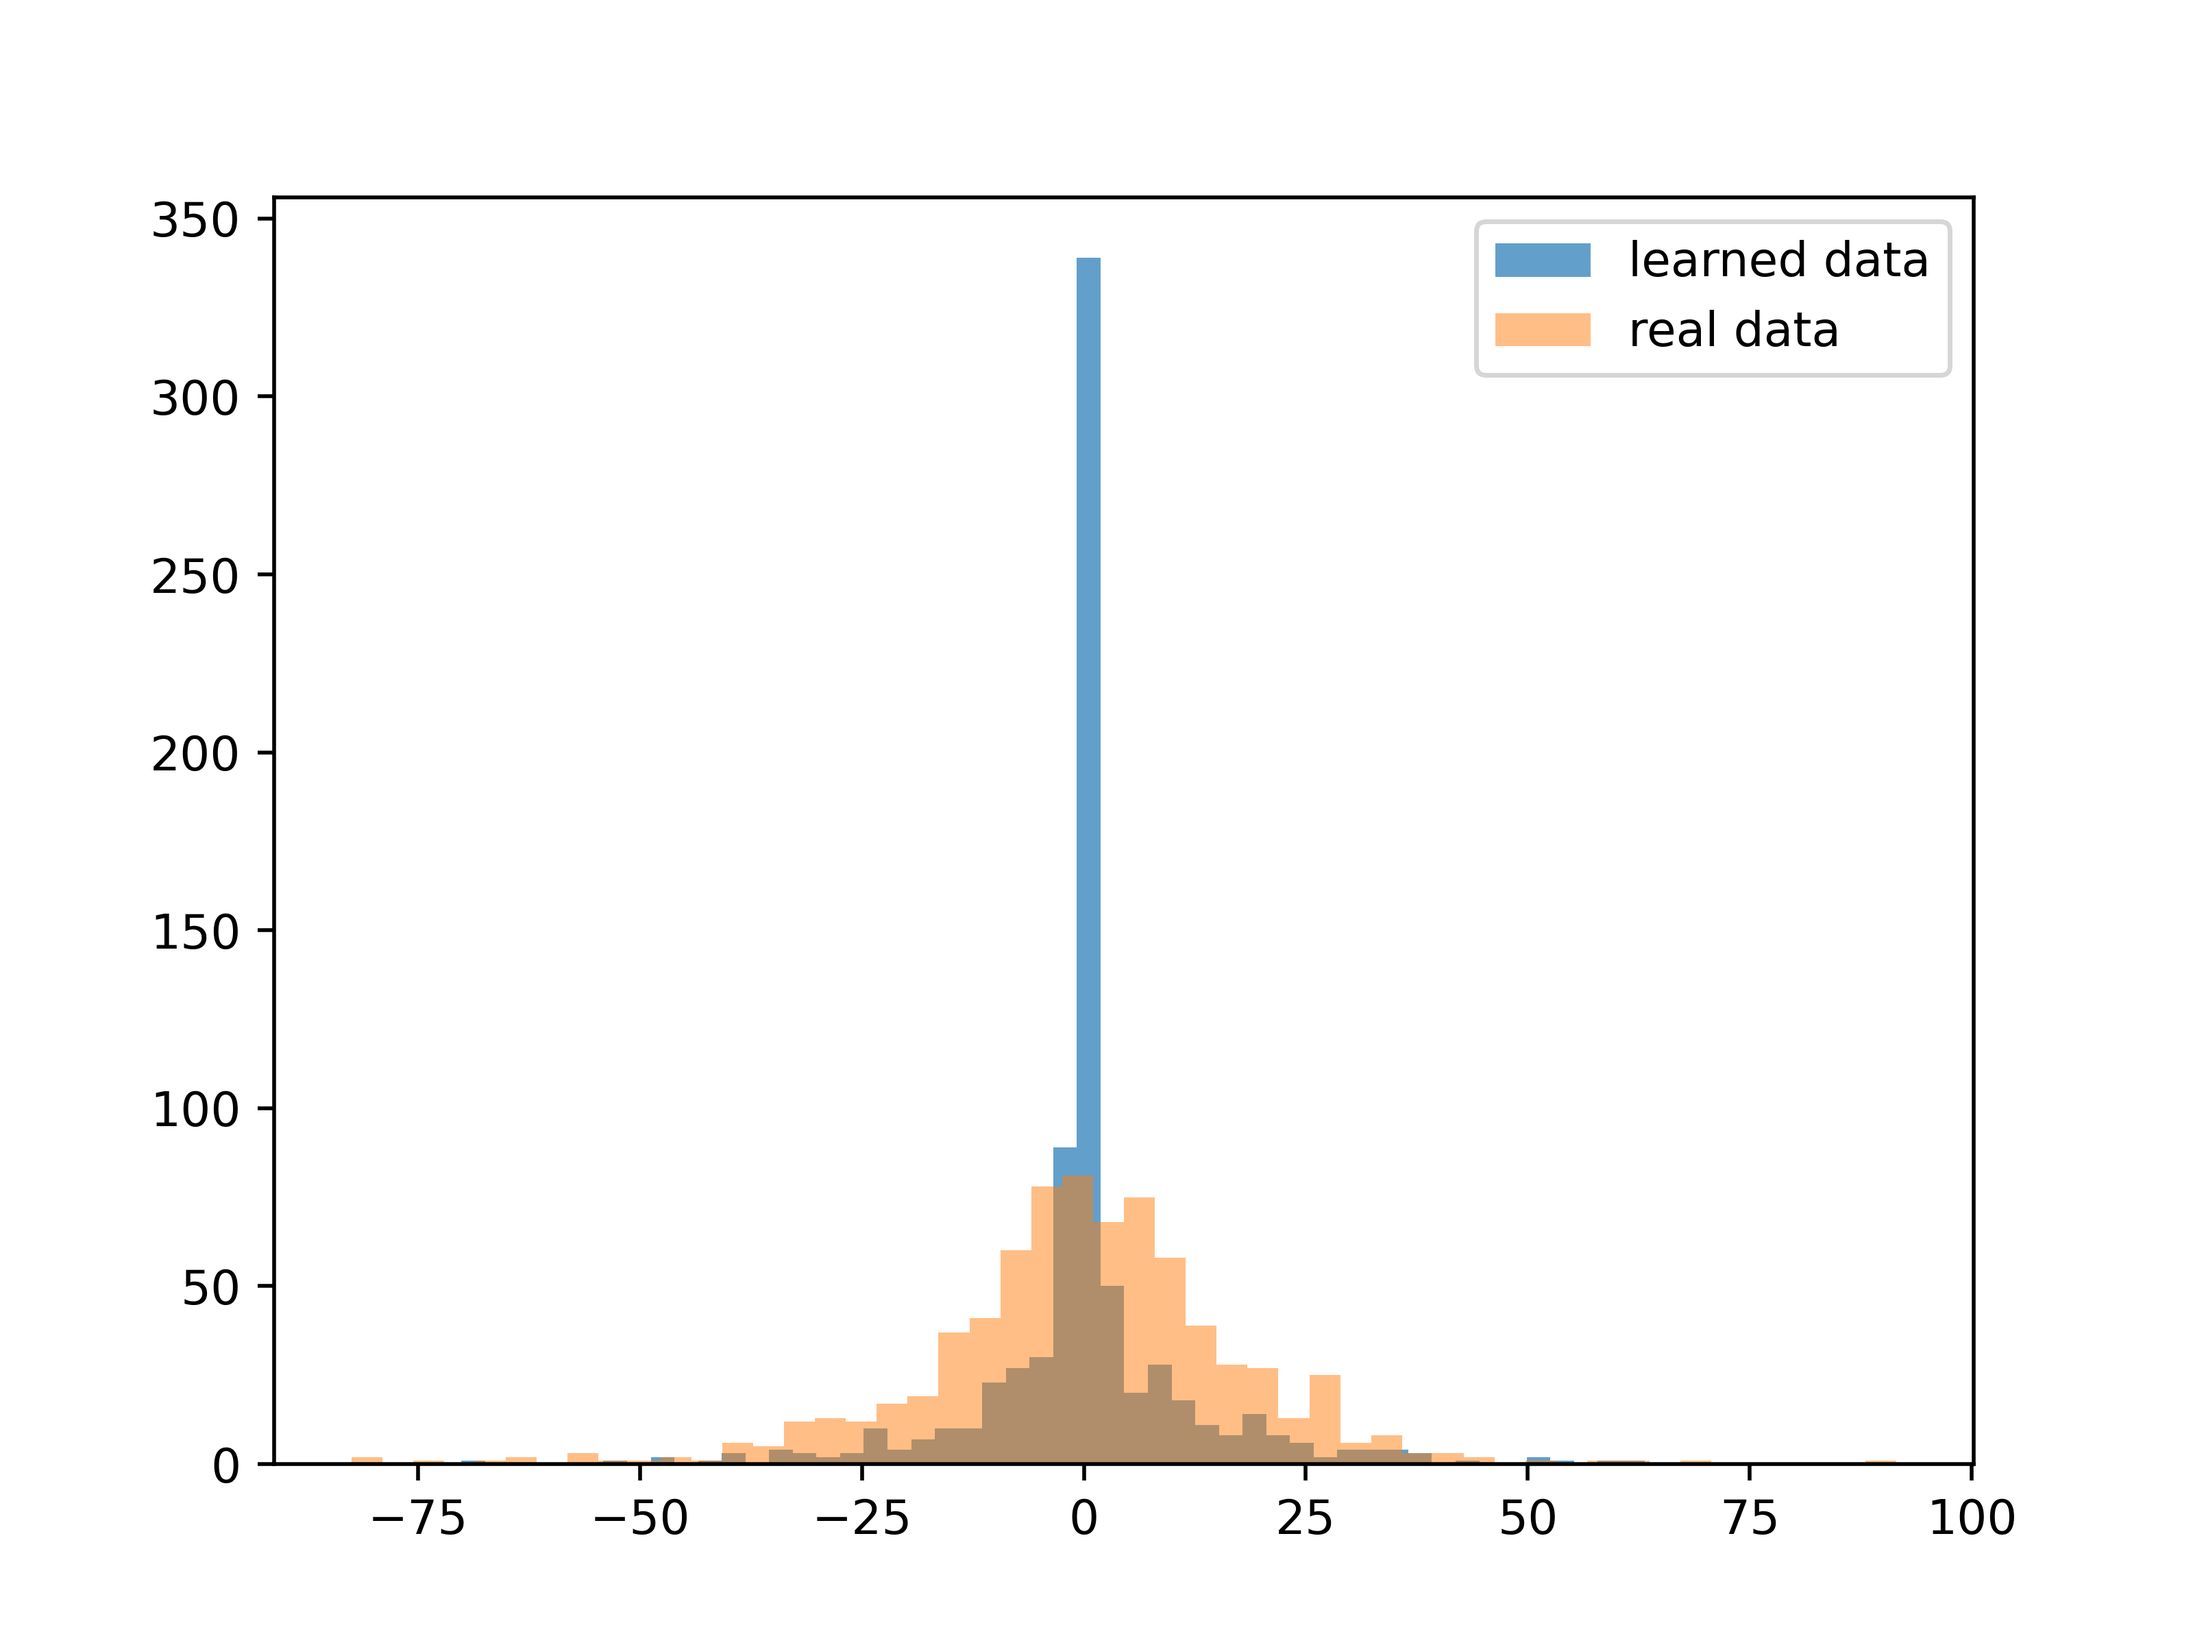
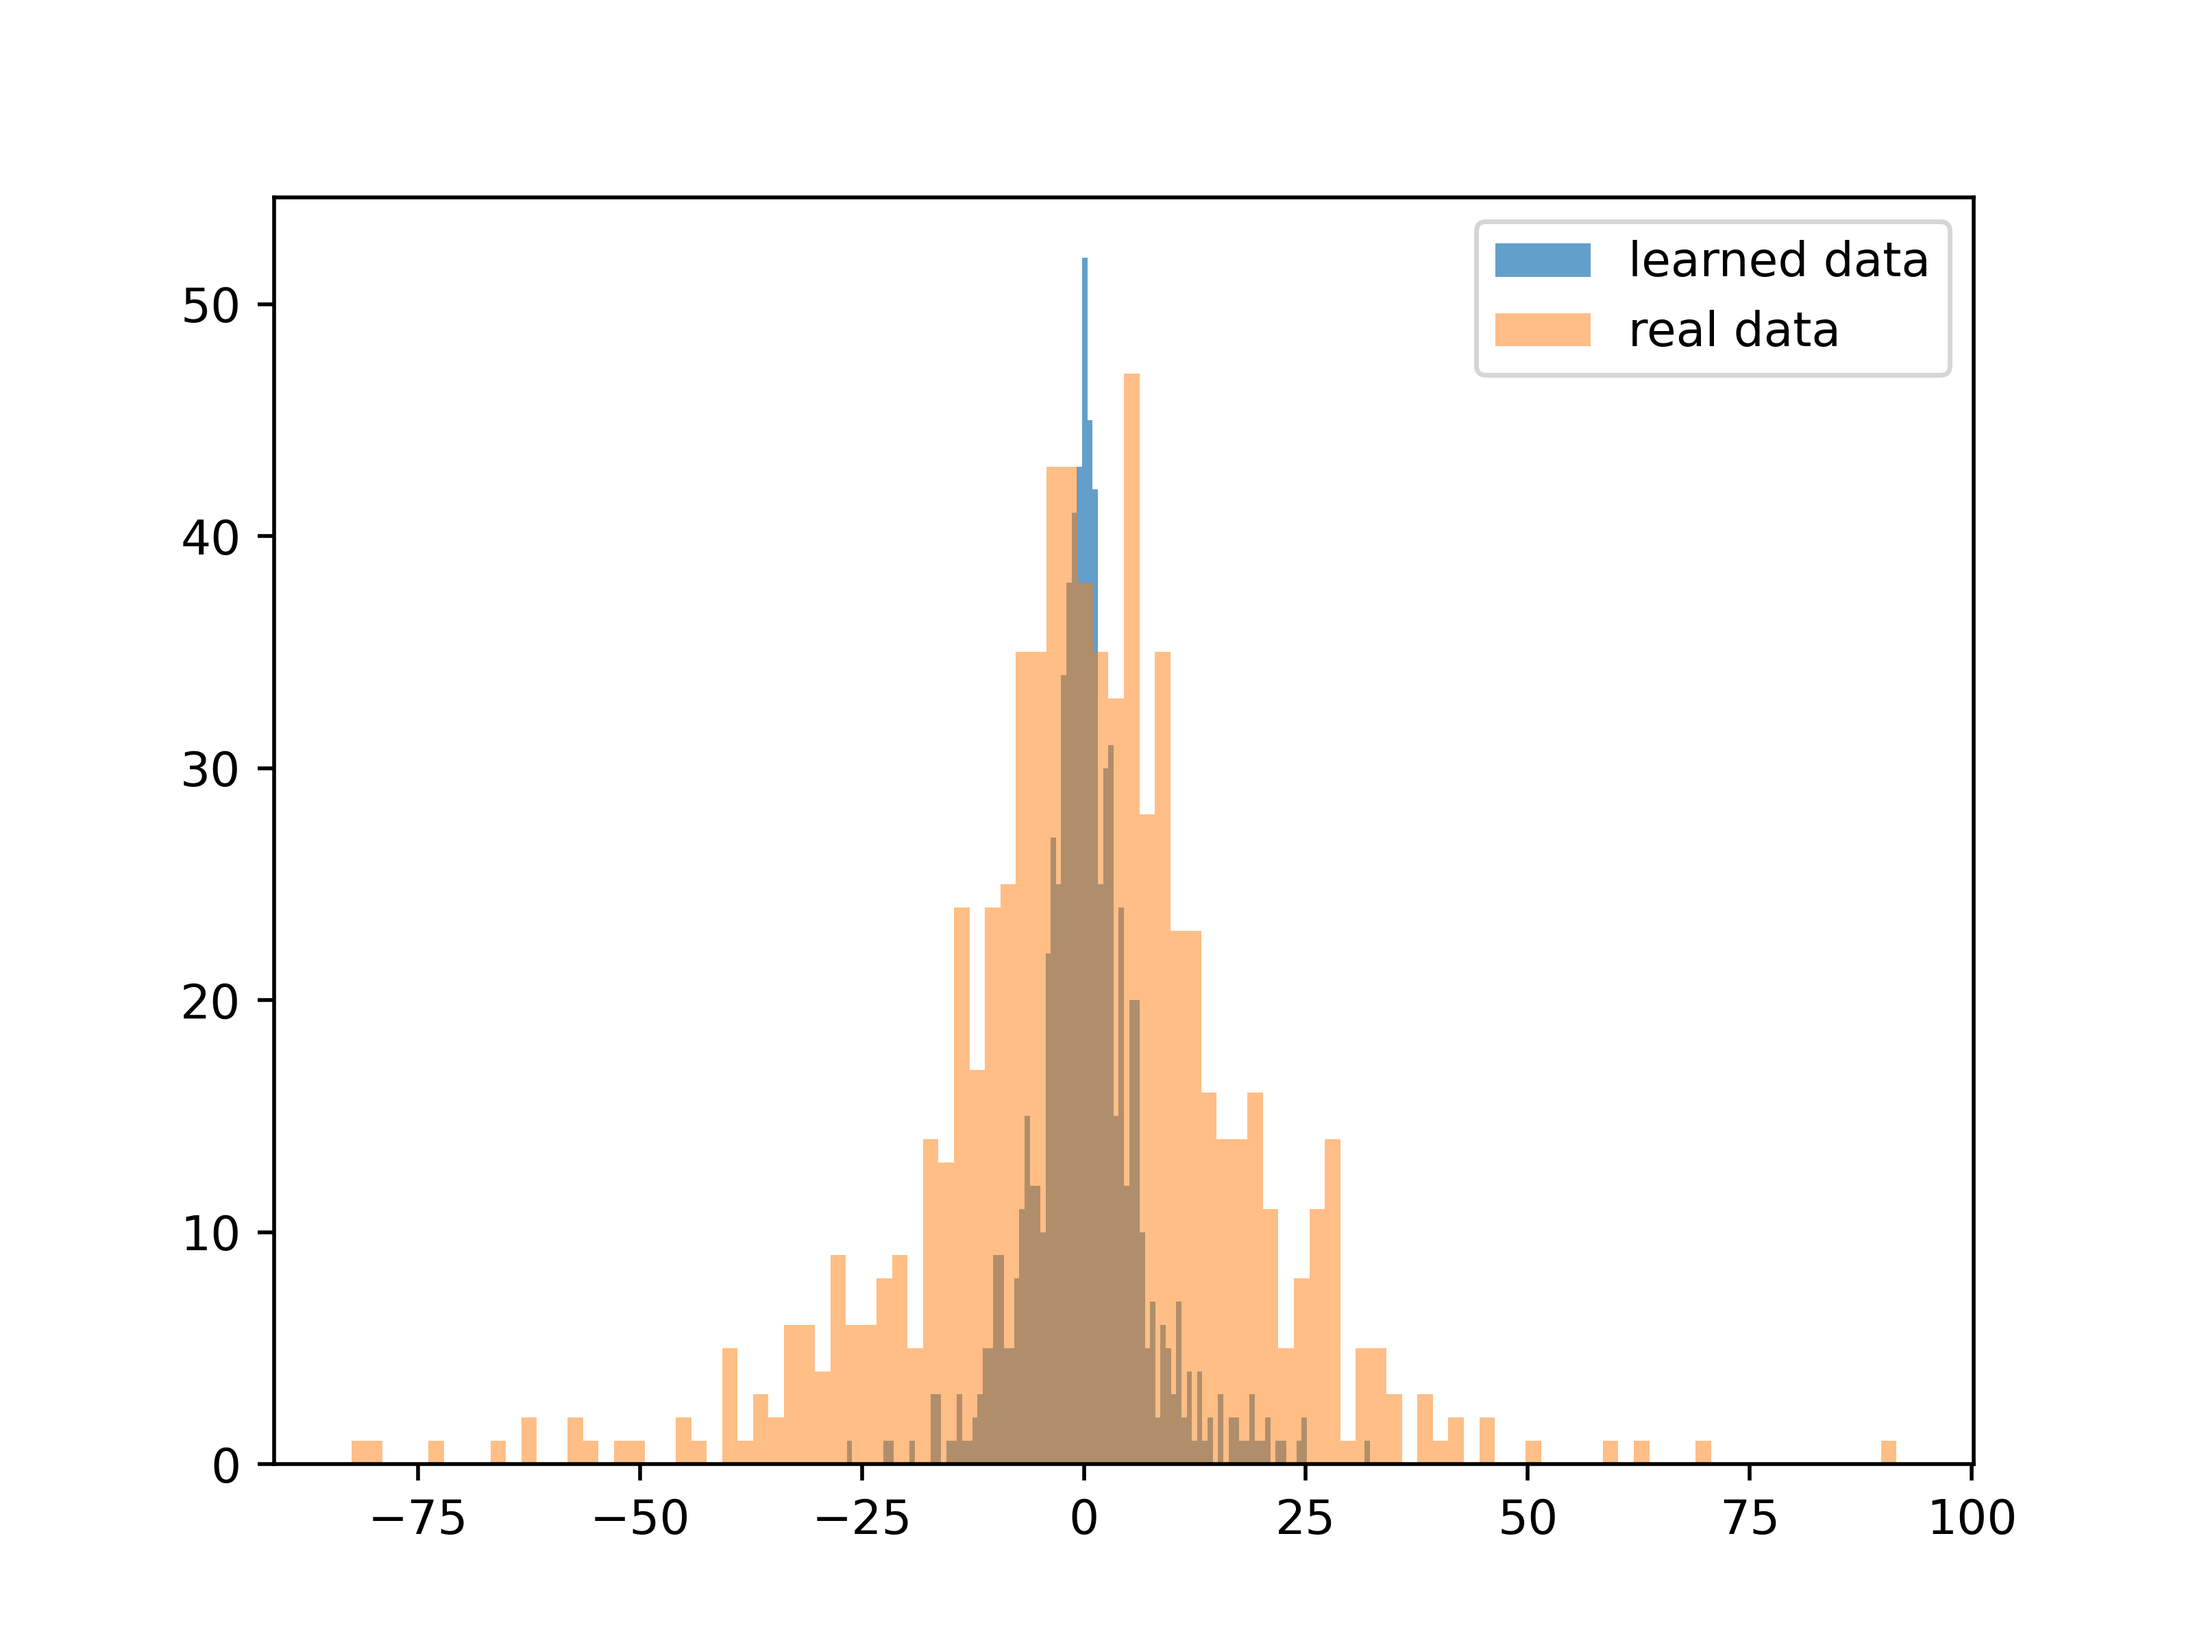
Make GPU enable

diff --git a/fsde_solver.py b/fsde_solver.py
@@ -7,8 +7,9 @@ import matplotlib.pyplot as plt
 from fbm import FBM
 from neural_net import LatentFSDEfunc
 
-device = "cpu" #torch.device('cuda:' if torch.cuda.is_available() else 'cpu')
-
+#device = "cpu" 
+#torch.device('cuda:' if torch.cuda.is_available() else 'cpu')
+device = "cuda" if torch.cuda.is_available() else "cpu"
 
 
 def fsdeint(hurst, y0, ts):
@@ -50,7 +51,6 @@ def fsdeint(hurst, y0, ts):
     y_samples = np.stack(y_samples, axis=0)
     y_samples.tolist()
     y_samples = torch.tensor(y_samples, requires_grad=True)
-    #y_samples = torch.from_numpy(y_samples).float().to(device)
     
     return y_samples
 
@@ -64,25 +64,22 @@ def experiment():
     print(y, y.size())
     y= y.detach().numpy().copy()
     
-    #plt.plot(ts, y[0,:,1], label="solution")
-    #plt.legend()
-    #plt.show()
     plt.hist(y[0,:,0], bins=50, color='red')
     plt.hist(y[0,:,1], bins=50, color='blue')
     plt.show()
-    """
-    fig = plt.figure()
-    ax = fig.add_subplot(1,1,1)
 
-    ax.hist(y[0,:,1], color='red')
-    ax.hist(y[0,:,1], color='blue')
-    ax.set_title('fifth histogram')
-    ax.set_xlabel('x')
-    ax.set_ylabel('freq')
-    ax.set_ylim(0, 0.1)
-    fig.show()
-    """
+   
+def fbm_path(hurst):
+    f = FBM(n=1024, hurst=hurst, length=1).fbm()
+    ts = np.linspace(0, 1, 1025)
+    plt.plot(ts, f, linewidth=3, label="H={}".format(hurst))
+    #plt.xlabel("Time", fontsize=14)
+    #plt.ylabel("Value", fontsize=14) 
+    plt.legend(fontsize=18)
+    plt.tight_layout()
+    plt.show()
 
+#fbm_path(0.5)
 
 #experiment()
 

diff --git a/plots.py b/plots.py
@@ -11,14 +11,17 @@ def plot_path(train_ts, xs_learn, test_ts, xs_pred, train_data, test_data, path)
     plt.scatter(train_ts, train_data, label='train data', s=3)
     plt.scatter(test_ts, test_data, label='test data', s=3)
     plt.legend()
+    plt.tight_layout()
     plt.savefig(path, dpi=500)
     print('Saved visualization figure at {}'.format(path))
 
 
 def plot_hist(xs_learn, train_data, path):
     plt.figure()
-    plt.hist(np.diff(xs_learn.reshape(-1)), alpha=0.7, bins=50, label='learned data')
-    plt.hist(np.diff(train_data.reshape(-1)), alpha=0.5, bins=50, label='real data')  
+    plt.hist(np.diff(xs_learn.reshape(-1)), alpha=0.7, bins=100, label='learned data')
+    plt.hist(np.diff(train_data.reshape(-1)), alpha=0.5, bins=100, label='real data')  
     plt.legend()
     plt.savefig(path, dpi=500)
     print('Saved visualization figure at {}'.format(path))
+
+
